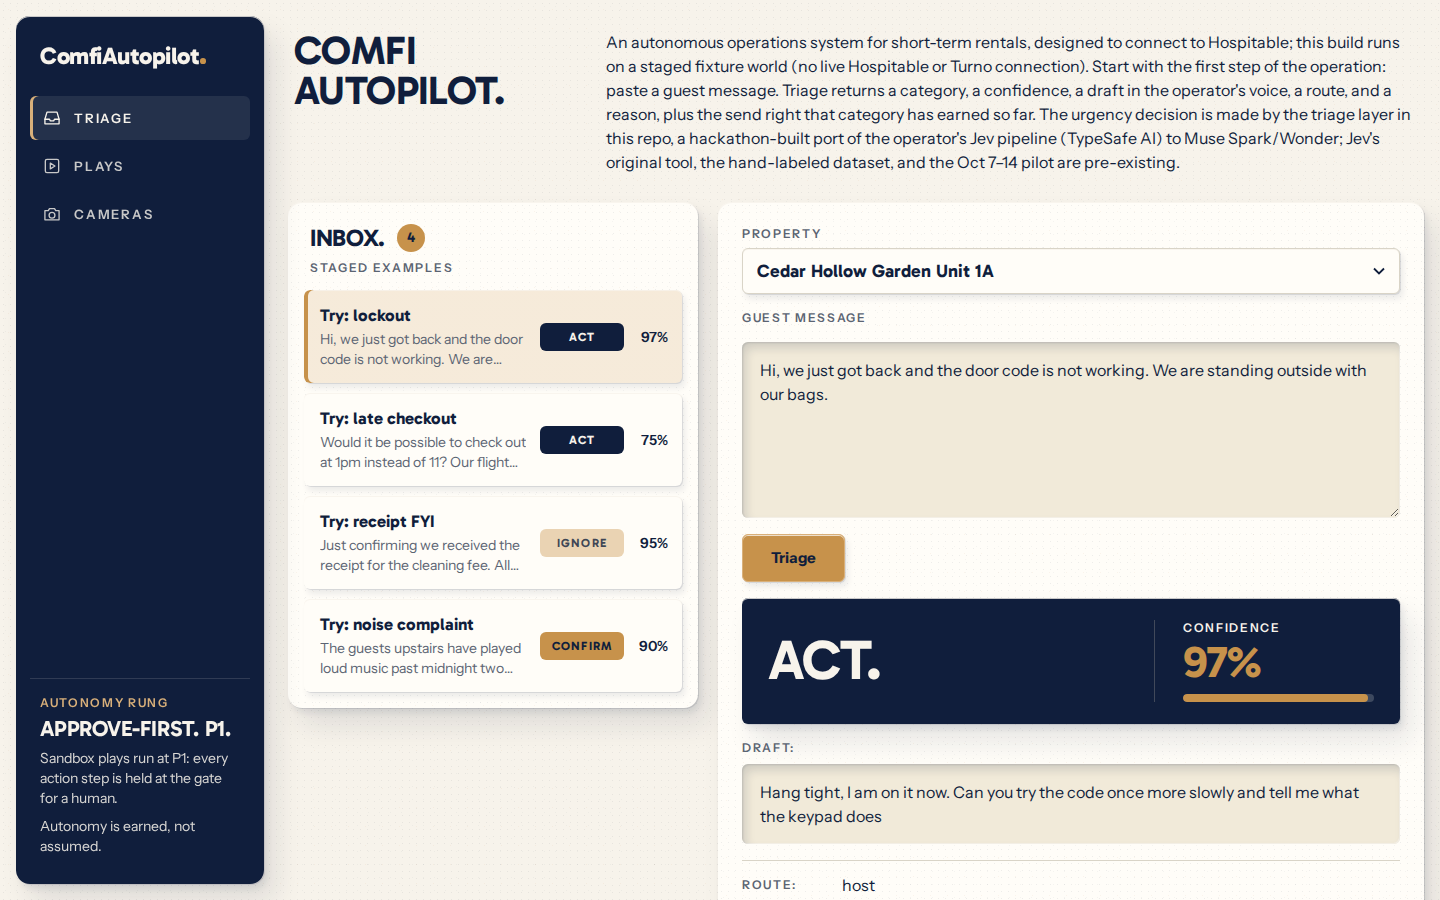
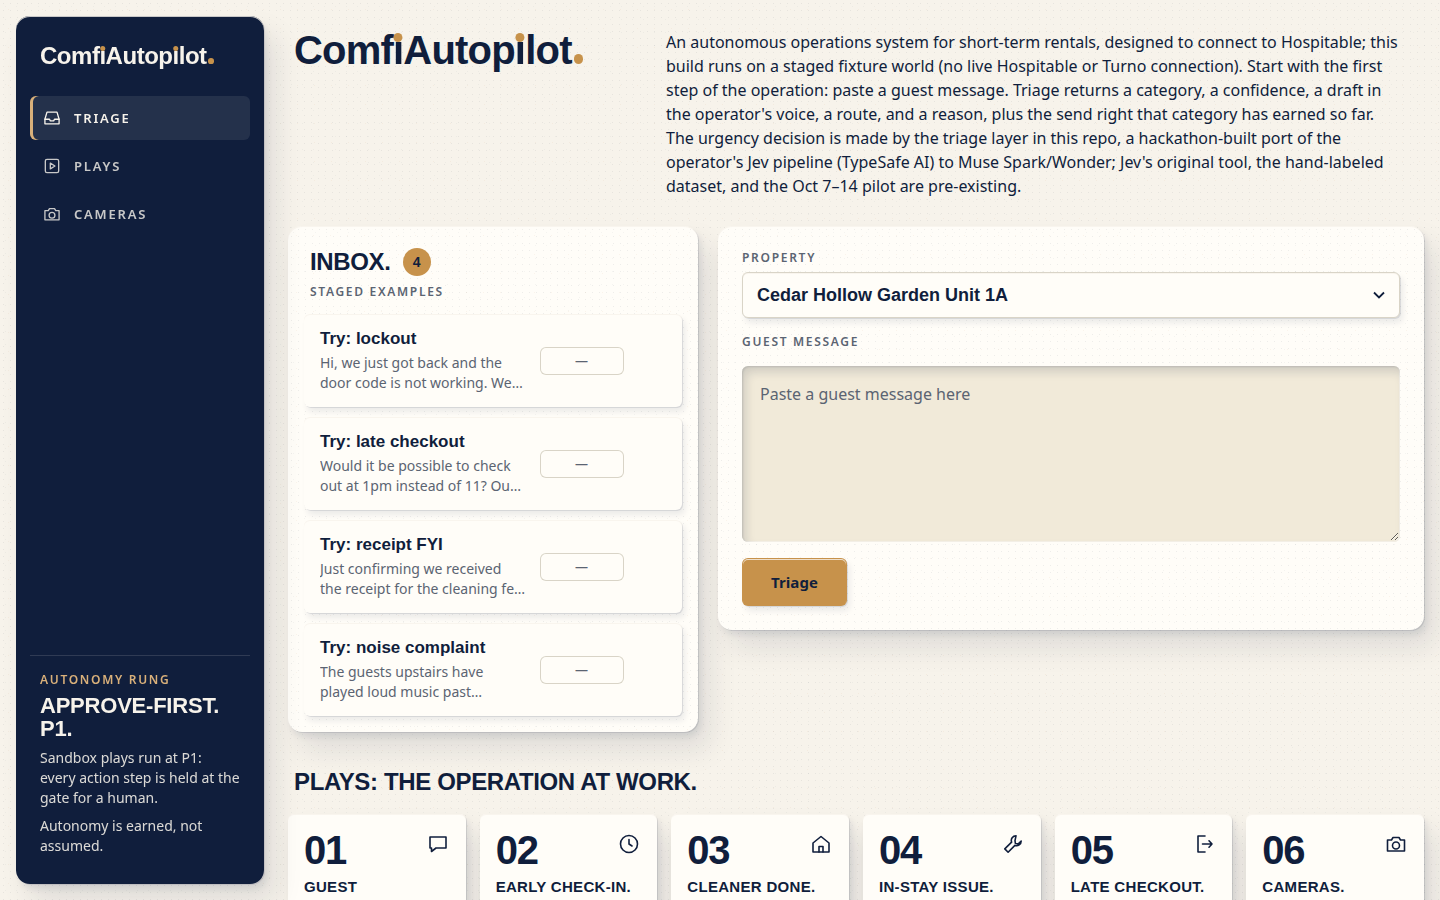
design: wordmark lockup replaces the display headline; golden dots on both i's
Gus's edit (Oct 28): the rail logo lockup replaces the stacked
COMFI AUTOPILOT. headline in the masthead, and both i's in
ComfiAutopilot carry the golden dot (dotless-i stems with amber
tittle spans), in the rail and the masthead alike. At <=1023px the
top bar carries the wordmark and the h1 stays for semantics only.
Fable audit caught a 720-1023px masthead collapse from the hidden
h1 leaving the grid flow; fixed with a single-column masthead in
that band and verified at 900px. Fallback screenshots refreshed.
257 tests pass.

diff --git a/sandbox/index.html b/sandbox/index.html
@@ -90,6 +90,15 @@
   .wordmark { padding: 0 10px; font: 800 24px/1 var(--font-display); letter-spacing: -.02em; white-space: nowrap; }
   .wordmark .dot { display: inline-block; width: .24em; height: .24em; margin-left: .05em;
                    border-radius: var(--r-round); background: var(--amber); }
+  /* wordmark lockup: dotless i stems with amber tittles (Gus, Oct 28) */
+  .wm { white-space: nowrap; }
+  .wm .wm-i { position: relative; }
+  .wm .tittle { position: absolute; left: 50%; transform: translateX(-50%); bottom: .74em;
+                width: .23em; height: .23em; border-radius: var(--r-round); background: var(--amber); }
+  .wm .dot { display: inline-block; width: .24em; height: .24em; margin-left: .05em;
+             border-radius: var(--r-round); background: var(--amber); }
+  .masthead-mark { font-family: var(--font-display); font-weight: 800; line-height: 1;
+                   letter-spacing: -.02em; color: var(--ink); }
   .railnav { display: grid; gap: 4px; margin: 0; padding: 0; list-style: none; }
   .railnav a { display: flex; align-items: center; gap: 12px; padding: 12px; border-radius: var(--r-sm);
                color: var(--cream); text-decoration: none; opacity: .8;
@@ -104,7 +113,7 @@
              letter-spacing: -.01em; text-transform: uppercase; }
   .p1 p { margin: 0 0 8px; font-size: var(--fs-small); line-height: 20px; opacity: .88; }
 
-  .masthead { display: grid; grid-template-columns: minmax(200px, 280px) minmax(0, 1fr); gap: 32px;
+  .masthead { display: grid; grid-template-columns: minmax(0, 340px) minmax(0, 1fr); gap: 32px;
               align-items: start; padding: 14px 6px 0; }
   .masthead h1 { font-size: var(--fs-h1); }
   .masthead p { max-width: 80ch; margin: 0; }
@@ -272,7 +281,10 @@
     .railnav { display: flex; gap: 2px; }
     .railnav a { padding: 9px 10px; font-size: 12px; }
     .railnav svg { display: none; }
-    .masthead { order: 2; }
+    .masthead { order: 2; grid-template-columns: minmax(0, 1fr); }
+    /* the top bar already carries the wordmark at this width; keep the h1 for semantics only */
+    .masthead-mark { position: absolute; width: 1px; height: 1px; overflow: hidden;
+                     clip: rect(0 0 0 0); clip-path: inset(50%); white-space: nowrap; }
     .p1 { order: 3; display: grid; grid-template-columns: auto minmax(0, 1fr); align-items: baseline; gap: 4px 14px;
           margin: 0; padding: 14px 18px; border: 0; border-radius: var(--r-sm); background: var(--panel);
           color: var(--ink); box-shadow: inset 4px 0 0 var(--amber), var(--pressed-row); }
@@ -311,7 +323,7 @@
 <div class="shell">
   <aside class="rail">
     <div class="rail-top">
-      <div class="wordmark" role="img" aria-label="ComfiAutopilot">ComfiAutopilot<span class="dot"></span></div>
+      <div class="wordmark" role="img" aria-label="ComfiAutopilot"><span class="wm" aria-hidden="true">Comf<span class="wm-i">ı<span class="tittle"></span></span>Autop<span class="wm-i">ı<span class="tittle"></span></span>lot<span class="dot"></span></span></div>
       <nav aria-label="Page sections">
         <ul class="railnav">
           <li><a href="#triage" aria-current="true"><svg viewBox="0 0 24 24" aria-hidden="true"><path d="M3.5 13.5 6 5h12l2.5 8.5V19h-17z"/><path d="M3.5 13.5H9l1 2h4l1-2h5.5"/></svg>Triage</a></li>
@@ -330,7 +342,7 @@
 
   <main class="main">
     <header class="masthead">
-      <h1 class="display">Comfi Autopilot</h1>
+      <h1 class="masthead-mark" aria-label="Comfi Autopilot"><span class="wm" aria-hidden="true">Comf<span class="wm-i">ı<span class="tittle"></span></span>Autop<span class="wm-i">ı<span class="tittle"></span></span>lot<span class="dot"></span></span></h1>
       <p>An autonomous operations system for short-term rentals, designed to
          connect to Hospitable; this build runs on a staged fixture world (no live
          Hospitable or Turno connection). Start with the first step of the operation: paste a guest
